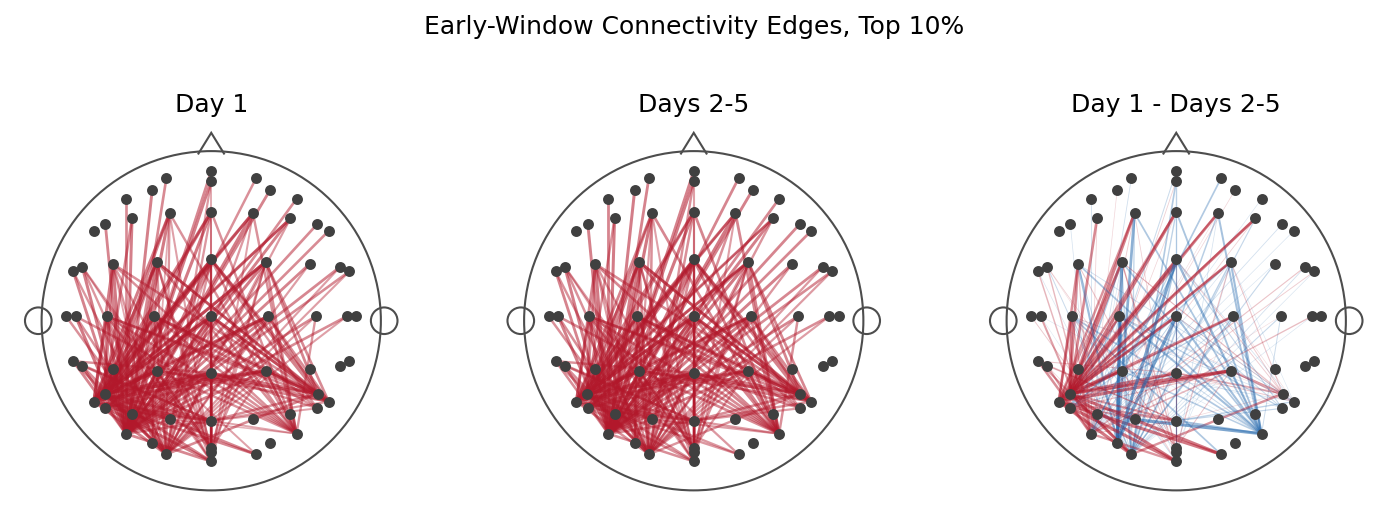
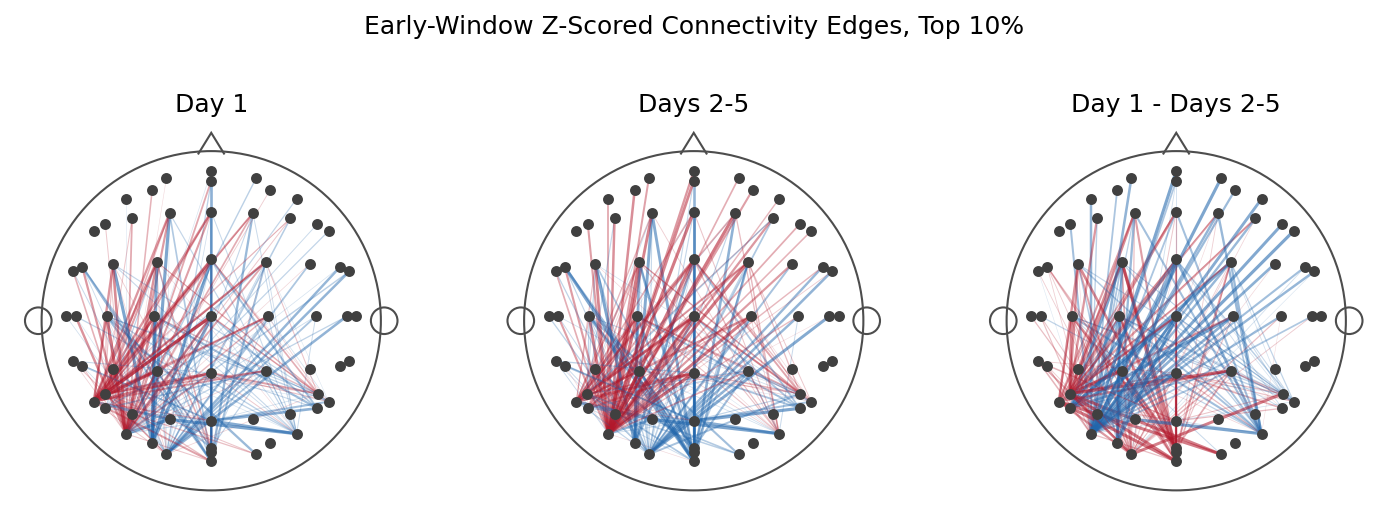
rev fig

diff --git a/code/presentation_figure.py b/code/presentation_figure.py
@@ -368,11 +368,34 @@ def plot_presentation_connect_edges_for_window(
     d = edges[(edges["window"] == window) & edges["pair_label"].isin(pair_labels)]
     if d.empty:
         raise ValueError(f"No {window}-window top-10% edge rows available")
+    z_rows = []
+    group_cols = ["subject", "day"]
+    for key, g in d.groupby(group_cols):
+        subject, day = key
+        vals = g["conn_mean"].to_numpy(float)
+        mean_val = float(np.nanmean(vals))
+        std_val = float(np.nanstd(vals))
+        if std_val <= np.finfo(float).eps:
+            continue
+        for row in g.itertuples(index=False):
+            z_rows.append(
+                {
+                    "subject": int(subject),
+                    "day": int(day),
+                    "pair_label": row.pair_label,
+                    "ch_i": row.ch_i,
+                    "ch_j": row.ch_j,
+                    "conn_z": (float(row.conn_mean) - mean_val) / std_val,
+                }
+            )
+    d_z = pd.DataFrame(z_rows)
+    if d_z.empty:
+        raise ValueError(f"No z-scored {window}-window edge rows available")
     rows = []
     for pair_label in sorted(pair_labels):
-        g = d[d["pair_label"] == pair_label]
-        d1 = g[g["day"] == 1]["conn_mean"].to_numpy(float)
-        dl = g[g["day"] > 1]["conn_mean"].to_numpy(float)
+        g = d_z[d_z["pair_label"] == pair_label]
+        d1 = g[g["day"] == 1]["conn_z"].to_numpy(float)
+        dl = g[g["day"] > 1]["conn_z"].to_numpy(float)
         if len(d1) == 0 or len(dl) == 0:
             continue
         row0 = g.iloc[0]
@@ -412,7 +435,9 @@ def plot_presentation_connect_edges_for_window(
         "Day 1 - Days 2-5",
         panel_vlim(plot_df, "difference"),
     )
-    fig.suptitle(f"{window.title()}-Window Connectivity Edges, Top 10%")
+    fig.suptitle(
+        f"{window.title()}-Window Z-Scored Connectivity Edges, Top 10%"
+    )
     fig.tight_layout(rect=[0, 0, 1, 0.9])
     fig_path = figures_dir / (
         f"presentation_connectivity_d1_later_edges_{window}_top10.png"
